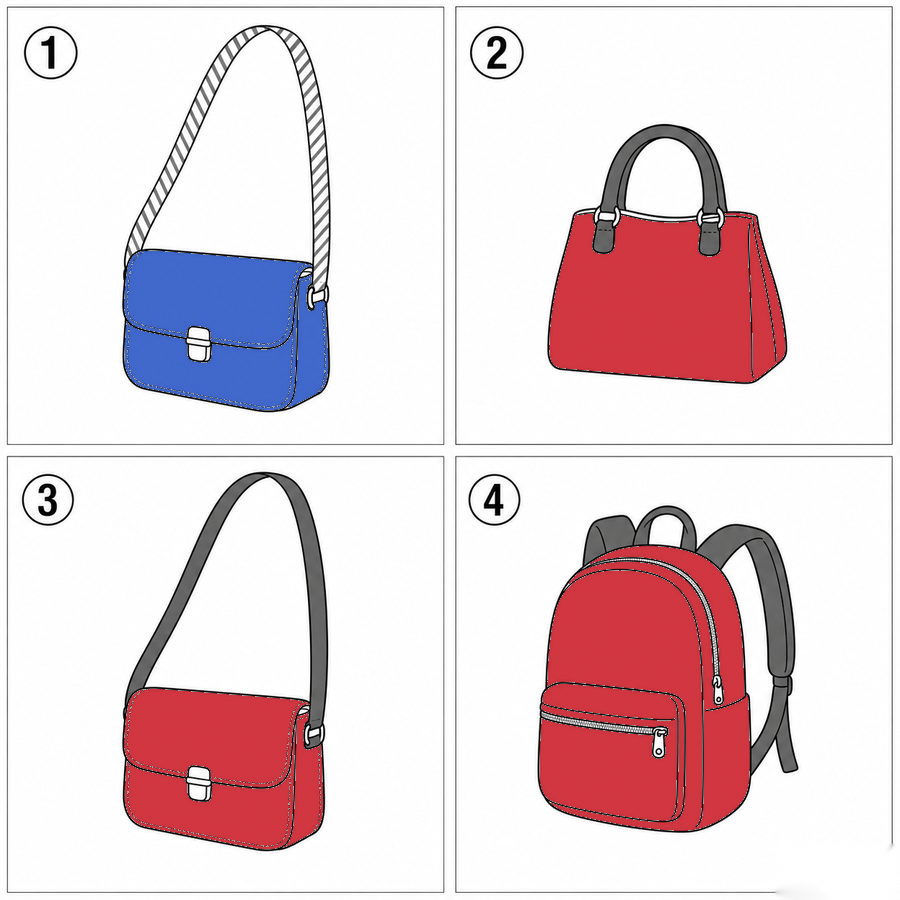
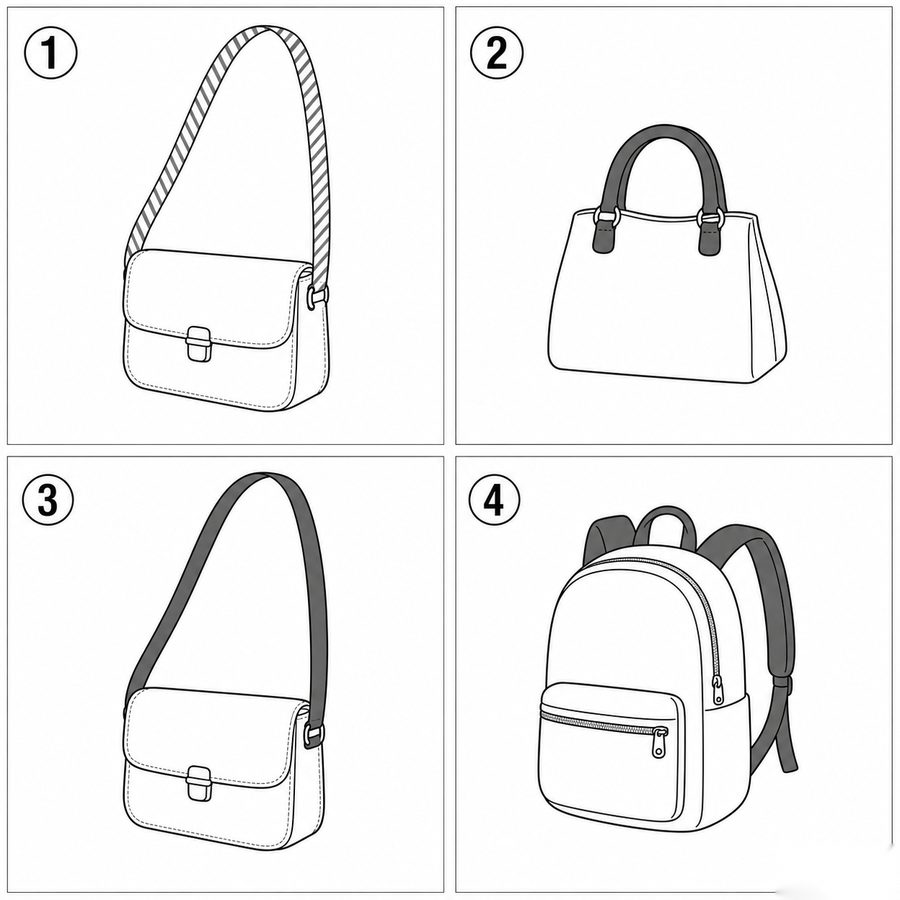
fix(listening): restore monochrome bag question

diff --git a/src/data/englishListeningQ1BProblems.ts b/src/data/englishListeningQ1BProblems.ts
@@ -46,7 +46,7 @@ const EL1_B_SET1_TRACKS: ListeningAudioTrack[] = [
     audioUrl: '/listening_audio/el1B_set1_q2.mp3',
     label: '問2',
     hint: '男性（会社員）',
-    script: '"I\'ll take this red shoulder bag with the long strap, please."',
+    script: '"I\'ll take this shoulder bag with the long strap, please."',
     translation: '',
     keyPhrases: [],
   },
@@ -132,7 +132,7 @@ const EL1_B_SET1: ListeningProblem = {
       imageUrl: '/listening_q1b/el1B_set1_q2.jpg',
       imageCaption: '問2 の選択肢イラスト（①〜④）',
       detailedExplanation: {
-        theme: '色（red）・種類（shoulder bag）・属性（long strap）の3条件の組み合わせ',
+        theme: '種類（shoulder bag）と属性（long strap）の組み合わせ',
         type: 'イラスト選択型',
         difficulty: 2,
         steps: [
